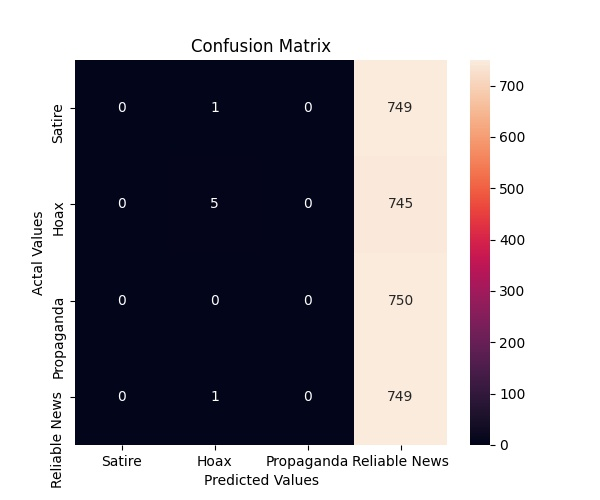
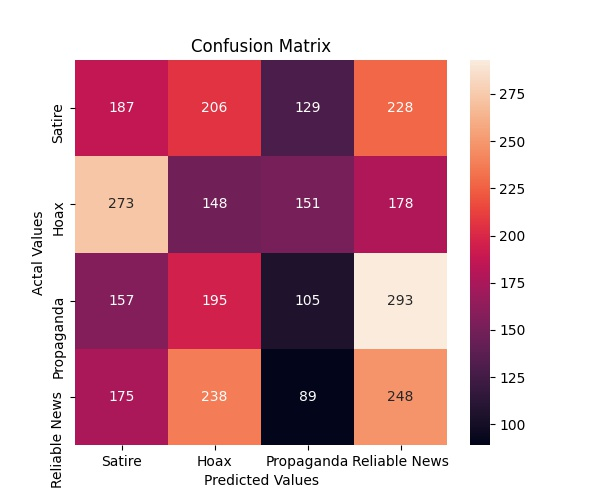
Refactor RNN

diff --git a/machineLearning/RNN.py b/machineLearning/RNN.py
@@ -1,43 +1,76 @@
 import pandas as pd 
 import numpy as np
+import keras
+import numpy as np
+import tensorflow as tf
+import pickle
 
-from tensorflow.keras.preprocessing.sequence import pad_sequences
-from tensorflow.keras.layers import Input, Dense, LSTM, Embedding
-from tensorflow.keras.layers import Dropout, Activation, Bidirectional, GlobalMaxPool1D
-from tensorflow.keras.models import Sequential
-from tensorflow.keras.preprocessing import text, sequence
+from keras import layers
+from keras.preprocessing.text import Tokenizer
+from keras.preprocessing.sequence import pad_sequences
+from keras.layers import RNN
+from keras import backend
+from keras.layers import Input, Dense, LSTM, Embedding
+from keras.layers import Dropout, Activation, Bidirectional, GlobalMaxPool1D, SpatialDropout2D
+from keras.models import Sequential
+from keras.preprocessing import text, sequence
 
-## Change this value Accordingly. This is suppose to represent the unique number of tokens we have in our corpus
-total_vocabulary = 100000
+from sklearn.model_selection import train_test_split
+from sklearn.feature_extraction.text import TfidfVectorizer
+
+total_vocabulary = 100000 # Total number of tokens you want Tokenizer to keep
+max_sequence_length = 200
+class_label = 4
+embedding_dim = 100
+
+def preprocess_tfidf(text_column):
+    """
+    Creates the tfidf vector for each of our sentences
+    :param text_column: text column that needs to be converted
+    """
+
+    vectorizer = TfidfVectorizer()
+    trainTfidf = vectorizer.fit_transform(text_column).toarray()
+
+    pickleFile = 'tokenizerRNN.sav'
+    pickle.dump(vectorizer, open(pickleFile, 'wb'))
+
+    print('Tf-Idf vectors:', trainTfidf.head)
+    return trainTfidf
 
 
-def keras_tokenizer(feature_column: pd.DataFrame, num_words: int, max_len: int) -> np.ndarray:
+def preprocess(text_column):
     """
     Creates the 2d vector for each of our sentences
-    :param feature_column: basically the column that containts our text sentence
-    :param num_words: limit number of words for the tokenizer to the most frequent x amount
-    :param max_len: the max length of what we want each sentence to have
+    where each element in the vector represents a word index of the word appearing in the sentence 
+    e.g. I have to go to work -> [0, 0, 0, 0, 1, 2, 3, 4, 3, 5]
+    The above assumes that the length of the sequence has to be 10 and is padded with zeros to fit this length.
+
+    :param text_column: text column that needs to be converted
     """
-    tokenizer = text.Tokenizer(num_words=num_words)
-    ## update the internal vocabulary of the tokenizer based on a list of text we send to it.
-    tokenizer.fit_on_texts(list(feature_column))
 
-    tokenized_texts = tokenizer.texts_to_sequences(feature_column)
-    X = sequence.pad_sequences(tokenized_texts, maxlen=max_len)
+    tokenizer = Tokenizer(num_words=total_vocabulary, filters='!"#$%&()*+,-./:;<=>?@[\]^_`{|}~', lower=True)
+    tokenizer.fit_on_texts(text_column.values)
 
-    return X
+    pickleFile = 'tokenizerRNN.sav'
+    pickle.dump(tokenizer, open(pickleFile, 'wb'))
 
+    sentence_vector = tokenizer.texts_to_sequences(text_column.values)
+    sentence_vector = pad_sequences(sentence_vector, maxlen=max_sequence_length)
+    print('Sentence vector:', sentence_vector.head)
+    return sentence_vector
 
-def RNN_model(embedding_output: int, class_label: int):
+def RNN_model(X_train):
     """
-    Creating our RNN model. This is just an example skeleton
-    :param embedding_output: dimension output of the embedding layer
-    :param class_label: number of classes we have
+    Creating our RNN model.
+    :param X_train: Input for the model later.
+                    Needed now just to know the size of embedding layer
     """
     model = Sequential()
-    model.add(Embedding(total_vocabulary, embedding_output))
-    model.add(LSTM(25, return_sequences=True))
-    model.add(GlobalMaxPool1D())
+    model.add(Embedding(total_vocabulary, embedding_dim, input_length=X_train.shape[1]))
+    model.add(layers.GRU(256, return_sequences=True))
+    model.add(layers.SimpleRNN(128))
+    # model.add(GlobalMaxPool1D())
     model.add(Dropout(0.5))
     model.add(Dense(50, activation='relu'))
     model.add(Dropout(0.5))
@@ -45,6 +78,35 @@ def RNN_model(embedding_output: int, class_label: int):
     model.add(Dropout(0.5))
     model.add(Dense(class_label, activation='softmax'))
 
+    return model
+
+def LSTM_model(X_train):
+    """
+    Creating our RNN model using LSTM layer.
+    :param X_train: Input for the model later.
+                    Needed now just to know the size of embedding layer
+    """
+    model = Sequential()
+    model.add(Embedding(total_vocabulary, embedding_dim, input_length=X_train.shape[1]))
+    model.add(LSTM(100, dropout=0.2, recurrent_dropout=0.2))
+    model.add(Dense(4, activation='softmax'))
+    model.compile(loss='categorical_crossentropy', optimizer='adam', metrics=['accuracy'])
+    
+    return model
+
+def RNN_model_with_cell():
+    """
+    Creating our RNN model from cells.
+    """
+    model = keras.Sequential()
+    model.add(layers.Embedding(input_dim=1000, output_dim=64))
+    model.add(layers.GRU(256, return_sequences=True))
+    model.add(layers.SimpleRNN(128))
+
+    cell = MinimalRNNCell(32)
+    layer = RNN(cell)
+    model.add(layer)
+    model.add(layers.Dense(10))
 
     model.compile(loss='categorical_crossentropy', 
             optimizer='adam', 
@@ -52,7 +114,73 @@ def RNN_model(embedding_output: int, class_label: int):
     
     return model
 
-    
+def train_model(model, X_train, y_train):
+    """
+    Trains the model using the data
 
+    :param model: model to use
+    :param X_train: input
+    :param y_train: expected result
+    """
+    epochs = 1
+    batch_size = 64
+    model.fit(X_train, y_train, epochs=epochs, batch_size=batch_size, validation_split=0.1)
 
+def one_hot_vec(y):
+    """
+    Converts y values into one-hot vectors.
+    e.g. [1, 3, 2] -> [[0, 1, 0, 0], [0, 0, 0, 1], [0, 0, 1, 0]]
 
+    :param y: all values to be converted
+    """
+    y-=1
+    one_hot_vector = np.zeros((y.size, y.max()+1))
+    one_hot_vector[np.arange(y.size), y] = 1
+
+    print("Y transformed into one-hot vector: ", one_hot_vector)
+    return one_hot_vector
+
+def main():
+    # Read and process input into vectors
+    df = pd.read_csv('../dataset/prep.csv')
+    X = preprocess(df["clean"])
+
+    # Split into train and test
+    X_train, X_test, y_train, y_test = train_test_split(X, one_hot_vec(df["y"]), test_size = 0.10, random_state = 42)
+
+    # Prepare and train RNN model
+    model = RNN_model(X_train)
+    train_model(model, X_train, y_train)
+
+    # Save this model
+    pickleFile = 'trainedRNN.sav'
+    pickle.dump(model, open(pickleFile, 'wb'))
+
+    accr = model.evaluate(X_test, y_test)
+    print('Test set\n  Loss: {:0.3f}\n  Accuracy: {:0.3f}'.format(accr[0],accr[1]))
+
+main()
+
+# Unused class for generating model using RNN cells
+class MinimalRNNCell(keras.layers.Layer):
+
+    def __init__(self, units, **kwargs):
+        self.units = units
+        self.state_size = units
+        super(MinimalRNNCell, self).__init__(**kwargs)
+
+    def build(self, input_shape):
+        self.kernel = self.add_weight(shape=(input_shape[-1], self.units),
+                                      initializer='uniform',
+                                      name='kernel')
+        self.recurrent_kernel = self.add_weight(
+            shape=(self.units, self.units),
+            initializer='uniform',
+            name='recurrent_kernel')
+        self.built = True
+
+    def call(self, inputs, states):
+        prev_output = states[0]
+        h = backend.dot(inputs, self.kernel)
+        output = h + backend.dot(prev_output, self.recurrent_kernel)
+        return output, [output]

diff --git a/machineLearning/evaluateModelRNN.py b/machineLearning/evaluateModelRNN.py
@@ -1,7 +1,5 @@
 import pandas as pd
-import re
-from sklearn.feature_extraction.text import TfidfVectorizer
-from sklearn.feature_extraction.text import CountVectorizer
+from sklearn.feature_extraction.text import TfidfVectorizer, CountVectorizer
 import matplotlib.pyplot as plt
 import numpy as np
 from sklearn.utils import resample
@@ -69,17 +67,18 @@ def preprocess(df, text_column_name, tokenizer=None):
     :param text_column_name: the name of column to be converted into a vector
     :model: filename of pretrained model
     """
-    # if tokenizer == None:
-    #     tokenizer = Tokenizer(num_words=total_vocabulary, filters='!"#$%&()*+,-./:;<=>?@[\]^_`{|}~', lower=True)
-    #     tokenizer.fit_on_texts(df[text_column_name].values)
-    # else:
-    #     tokenizer = load_tokenizer(tokenizer)
     if tokenizer == None:
-        vec = TfidfVectorizer()
-        tfidf = vec.fit_transform(df['clean']).toarray()
+        tokenizer = Tokenizer(num_words=total_vocabulary, filters='!"#$%&()*+,-./:;<=>?@[\]^_`{|}~', lower=True)
+        tokenizer.fit_on_texts(df[text_column_name].values)
     else:
-        vec = load_tokenizer(tokenizer)
-        tfidf = vec.transform(df['clean']).toarray()
+        print("Using the old tokenizer")
+        tokenizer = load_tokenizer(tokenizer)
+    # if tokenizer == None:
+    #     vec = TfidfVectorizer()
+    #     tfidf = vec.fit_transform(df['clean']).toarray()
+    # else:
+    #     vec = load_tokenizer(tokenizer)
+    #     tfidf = vec.transform(df['clean']).toarray()
     
     word_index = tokenizer.word_index
     print('Found %s unique tokens.' % len(word_index))
@@ -87,7 +86,7 @@ def preprocess(df, text_column_name, tokenizer=None):
     X = tokenizer.texts_to_sequences(df[text_column_name].values)
     X = pad_sequences(X, maxlen=max_sequence_length)
     print('Shape of data tensor:', X.shape)
-    return tfidf
+    return X
 
 
 def LSTM_model(X_train):
